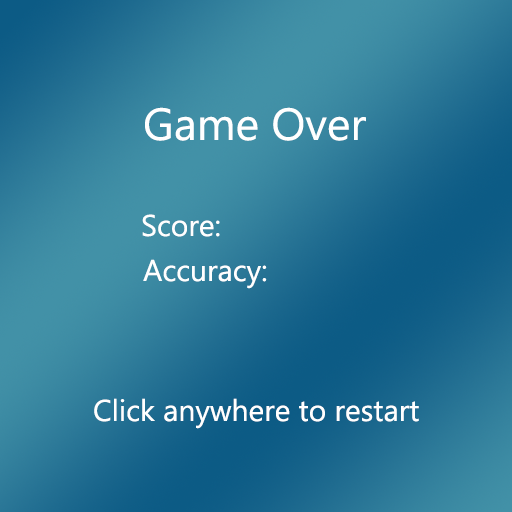
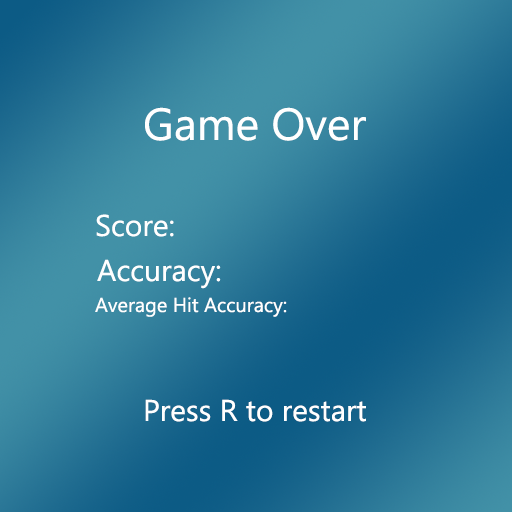
Added state menus & resetting, fixes

Changed region(s): [[0.1875, 0.5, 0.5625, 0.625], [0.1875, 0.7812, 0.8125, 0.8438], [0.1875, 0.4062, 0.4375, 0.4688]]

diff --git a/project.js b/project.js
@@ -10,6 +10,7 @@ var clicked = null;
 var mousedown = null;
 var mouseup = null;
 var mouse = null;
+var isR = false;
 
 export class Project extends Scene {
     constructor() {
@@ -66,8 +67,9 @@ export class Project extends Scene {
 
             menu: new Material(new defs.Textured_Phong(), {ambient: 1, texture: new Texture("assets/pausemenu.png")}),
             start_menu: new Material(new defs.Textured_Phong(), {ambient: 1, texture: new Texture("assets/startmenu.png")}),
-            pause_menu: new Material(new defs.Textured_Phong(), {ambient: 1, texture: new Texture("assets/pausemenu.png")}),
+            pause_menu: new Material(new defs.Textured_Phong(), {ambient: 1, texture: new Texture("assets/pause.png")}),
             gameover_menu: new Material(new defs.Textured_Phong(), {ambient: 1, texture: new Texture("assets/gameover.png")}),
+            gameoverchild_menu: new Material(new defs.Textured_Phong(), {ambient: 1, texture: new Texture("assets/gameoverchild.png")}),
 
             arrow_dark: new Material(new defs.Phong_Shader(), {ambient: this.base_ambient, diffusivity: 0.6, color: color(0.26, 0.15, 0.15, 1)}),
             arrowhead: new Material(new defs.Phong_Shader(), {ambient: this.base_ambient, diffusivity: 0.6, color: hex_color("#9fa4ab")}),
@@ -110,13 +112,26 @@ export class Project extends Scene {
             'gameOverChild' : 3,
             'none': null
         }
+        
+        this.crosshair = new Crosshair(this);
+        this.pause = new Menu(this, "pause");
+        this.startm = new Menu(this, "start");
+        this.gameoverm = new Menu(this, "gameover");
+        this.gameoverchildm = new Menu(this, "gameoverchild");
+
         this.reset();
 
     }
+
     reset() {
+        isR = false;
         this.state = this.States.start;
         this.level = 1;
         this.apples_thrown = 0;
+        this.total_apples_thrown = 0;
+        this.dist_sum = 0;
+        this.true_accuracy = 0;
+        this.apples_hit = 0;
         this.def_lives = 5;
         this.lives = this.def_lives;
         this.score = 0;
@@ -132,6 +147,7 @@ export class Project extends Scene {
         this.cam_lerp = 0.05;
         this.cam_lerp_to = 0.05;
 
+        this.accuracy = 0.0;
         this.tick = 0;
         this.level_start = 1;
         this.level_start_float = 1;
@@ -148,12 +164,8 @@ export class Project extends Scene {
 
         this.initial_arrow_vel = vec3(0, 0, -25);
 
-        this.crosshair = new Crosshair(this);
-        this.pause = new Menu(this, "pause");
-        this.startm = new Menu(this, "start");
-        this.gameoverm = new Menu(this, "gameover");
-
         this.camera_to = this.initial_camera_location;
+        this.physics_objects = [];
     }
     make_control_panel() {
         // Draw the scene's buttons, setup their actions and keyboard shortcuts, and monitor live measurements.
@@ -205,18 +217,26 @@ export class Project extends Scene {
         document.querySelector("#drawback").volume = (this.volume * 0.6);
         document.querySelector("#drawback").currentTime = 0;
         document.querySelector("#drawback").play();
-        this.physics_objects.push(new Arrow(this.initial_eye, this.initial_arrow_vel.times(fov**4), this, program_state, context))
+        this.physics_objects.push(new Arrow(this.initial_eye, this.initial_arrow_vel.times(fov**4), this, program_state, context));
+        this.accuracy = (this.total_apples_thrown == 0 ? 1 : this.apples_hit) / (this.total_apples_thrown == 0 ? 1 : this.total_apples_thrown);
+        //minimum accuracy is 0, maximum is 1
+        //max of dist_sum is apples_hit * 0.5, min is 0
+        console.log(this.dist_sum)
+        this.true_accuracy = 1 - ((this.dist_sum)/(this.apples_hit * 0.5));
     }
 
     game_appleHit(arrow, apple) {
         apple.hit_when = apple.scene.tick;
         apple.last_rot = apple.rotation;
         apple.kill();
-        let dist = this.dist(arrow.position, apple.position);
+        let arrowpos = vec3(arrow.position[0], arrow.position[1], arrow.position[2]-0.4);
+        let dist = this.dist(arrowpos, apple.position);
+        this.dist_sum += dist;
         dist = Math.max(0, Math.min(dist, 0.5));
         dist = (0.5 - dist)/0.5;
         let diff = Math.round(Math.exp((dist + 1)*2)) + (this.level * 5);
         this.score += diff;
+        this.apples_hit++;
         this.kinematic_objects.push(new ScoreText(apple.position, this, `+${diff}`))
         document.querySelector("#hit").volume = (this.volume * 0.6);
         document.querySelector("#hit").currentTime = 0;
@@ -243,7 +263,7 @@ export class Project extends Scene {
         this.state = this.States.gameOverChild;
     }
     game_spawnConfetti() {
-        if(this.particles > 12) {
+        if(this.particles > 5) {
             this.particles = 0;
             return this.confetti = false;
         }
@@ -260,7 +280,6 @@ export class Project extends Scene {
 
         //run the below regardless of state:
         //program_state.set_camera(this.initial_camera_location);
-        console.log(this.state);
         this.cam_lerp = this.lerp(this.cam_lerp, this.cam_lerp_to, 0.05);
         program_state.camera_inverse = this.camera_to.map((x,i) => Vector.from(program_state.camera_inverse[i]).mix(x, this.cam_lerp));
         program_state.projection_transform = Mat4.perspective(this.fov_default * this.fov_mult, context.width / context.height, .1, 1000);
@@ -299,7 +318,7 @@ export class Project extends Scene {
             }   break;
 
             case this.States.gameOverChild : {
-
+                this.runGameOverChild(context, program_state);
             }   break;
 
 
@@ -307,13 +326,13 @@ export class Project extends Scene {
                 tickDefault(context, program_state);
             }
         }
-
         this.draw_light_gadgets(context, program_state);
         this.draw_environment(context, program_state);
 
     }
 
     runStart(context, program_state) {
+        this.fov_mult = 1.0;
         this.startm.draw(context, program_state, this.canvas);
         this.camera_to = Mat4.look_at(this.initial_eye, vec3(-10, 0, 0), vec3(0, 1, 0));
         if(clicked != null) {
@@ -325,14 +344,49 @@ export class Project extends Scene {
         }
     }
     runGameOver(context, program_state) {
+        this.fov_mult = 1.0;
         this.gameoverm.draw(context, program_state, this.canvas);
         this.camera_to = Mat4.look_at(this.initial_eye, vec3(10, 0, 0), vec3(0, 1, 0));
-        if(clicked != null) {
-            clicked = null;
+
+        this.shapes.text.set_string(`${this.score}`, context.context);
+        this.shapes.text.draw(context, program_state, Mat4.inverse(program_state.camera_inverse).times(Mat4.translation(-0.1, 0.045, -1).times(Mat4.scale(0.027, 0.027, 1))), this.text_image.override({color: color(0, 1, 0.5, 0.9)}));
+
+        this.shapes.text.set_string(`${Math.round(this.accuracy * 10000)/100/*Math.round(this.accuracy * 10000)/100*/}%`, context.context);
+        this.shapes.text.draw(context, program_state, Mat4.inverse(program_state.camera_inverse).times(Mat4.translation(-0.025, -0.025, -1).times(Mat4.scale(0.027, 0.027, 1))), this.text_image.override({color: color(0, 1, 1, 1)}));
+
+        this.shapes.text.set_string(`${Math.round(this.true_accuracy * 10000)/100/*Math.round(this.accuracy * 10000)/100*/}%`, context.context);
+        this.shapes.text.draw(context, program_state, Mat4.inverse(program_state.camera_inverse).times(Mat4.translation(0.07, -0.08, -1).times(Mat4.scale(0.02, 0.02, 1))), this.text_image.override({color: color(0.4, 0.4, 0.4, 0.6)}));
+
+        document.body.onkeyup = function(event) {
+            if(event.key.toLowerCase() == "r") {
+                isR = true;
+            }
+        }
+        if(isR) {
             this.reset();
             this.paused = false;
             this.temp_cooldown = 300;
             this.state = this.States.game;
+            document.body.onkeyup = null;
+            return;
+        }
+    }
+    runGameOverChild(context, program_state) {
+        this.fov_mult = 1.0;
+        this.gameoverchildm.draw(context, program_state, this.canvas);
+        this.camera_to = Mat4.look_at(this.initial_eye, vec3(10, 0, 0), vec3(0, 1, 0));
+
+        document.body.onkeyup = function(event) {
+            if(event.key.toLowerCase() == "r") {
+                isR = true;
+            }
+        }
+        if(isR) {
+            this.reset();
+            this.paused = false;
+            this.temp_cooldown = 300;
+            this.state = this.States.game;
+            document.body.onkeyup = null;
             return;
         }
     }
@@ -403,9 +457,9 @@ export class Project extends Scene {
                 }
                 this.physics_objects.push(new Apple(vec3(-5*(xv / Math.abs(xv)), 7, -8.9), vec3(xv, 3, 0), this));
                 this.apples_thrown++;
+                this.total_apples_thrown++;
                 if(Math.random()*100 < 9 && this.slow < 0 && this.apples_thrown < (this.level * 1.5)) {
                     this.physics_objects.push(new GoldenApple(vec3(0, 10, -8.9), vec3(this.mro(3), Math.random()*4, 0), this));
-                    this.apples_thrown++;
                 }
                 
             }
@@ -447,11 +501,18 @@ export class Project extends Scene {
             if(this.tick%10 == 0) this.fps = Math.round(100000 / program_state.animation_delta_time) / 100;
         } else {
             this.fov_mult = 1.0;
-            if(clicked != null) {
-                if(this.paused) { 
-                    this.paused = false;
+            document.body.onkeyup = function(event) {
+                if(event.key.toLowerCase() == "r") {
+                    isR = true;
                 }
-                clicked = null;
+            }
+            if(isR) {
+                this.reset();
+                this.paused = false;
+                this.temp_cooldown = 300;
+                this.state = this.States.game;
+                document.body.onkeyup = null;
+                return;
             }
         }
     }
@@ -724,6 +785,7 @@ class Arrow extends PhysicsObject {
         this.last_rot = vec4(0, 0, 0, 0);
         this.hit_apple = null;
         this.hit_when = -1;
+        this.hit_wall = false;
     }
 
     draw(context, program_state) {
@@ -778,11 +840,16 @@ class Arrow extends PhysicsObject {
                 }
             }
         }
-        if(this.hit_apple) {
+        if(this.position[2] <= -9 && !this.hit_wall) { 
+            this.hit_wall = true; 
+            this.hit_when = this.scene.tick; 
+            this.last_rot = this.rotation; 
+        }
+        if(this.hit_apple || this.position[2] <= -9) {
             //this.position = this.hit_apple.position;
             this.velocity = vec3(0, 0, 0);
             this.acceleration = vec3(0, 0, 0);
-            this.rotation = this.last_rot.plus(vec4(3*this.wobble(0.2*(this.scene.tick - this.hit_when + 15)) + this.last_rot[0], 0, 0, 0));
+            this.rotation = this.last_rot.plus(vec4(3*this.wobble(0.35*(this.scene.tick - this.hit_when + 2)) + this.last_rot[0], 0, 0, 0));
         }
     }
 }
@@ -1010,11 +1077,14 @@ class Menu {
             case "gameover" : {
                 mat = this.scene.materials.gameover_menu;
             }   break;
+            case "gameoverchild" : {
+                mat = this.scene.materials.gameoverchild_menu;
+            }   break;
             default : {
                 mat = this.scene.materials.menu;
             }
         }
-        this.scene.shapes.menu.draw(context, program_state, Mat4.inverse(program_state.camera_inverse).times(Mat4.translation(0, 0, -3).times(Mat4.scale(1, 1, 1))), mat)
+        this.scene.shapes.menu.draw(context, program_state, Mat4.inverse(program_state.camera_inverse).times(Mat4.translation(0, 0, -3.5).times(Mat4.scale(1, 1, 1))), mat)
     }
 }
 
